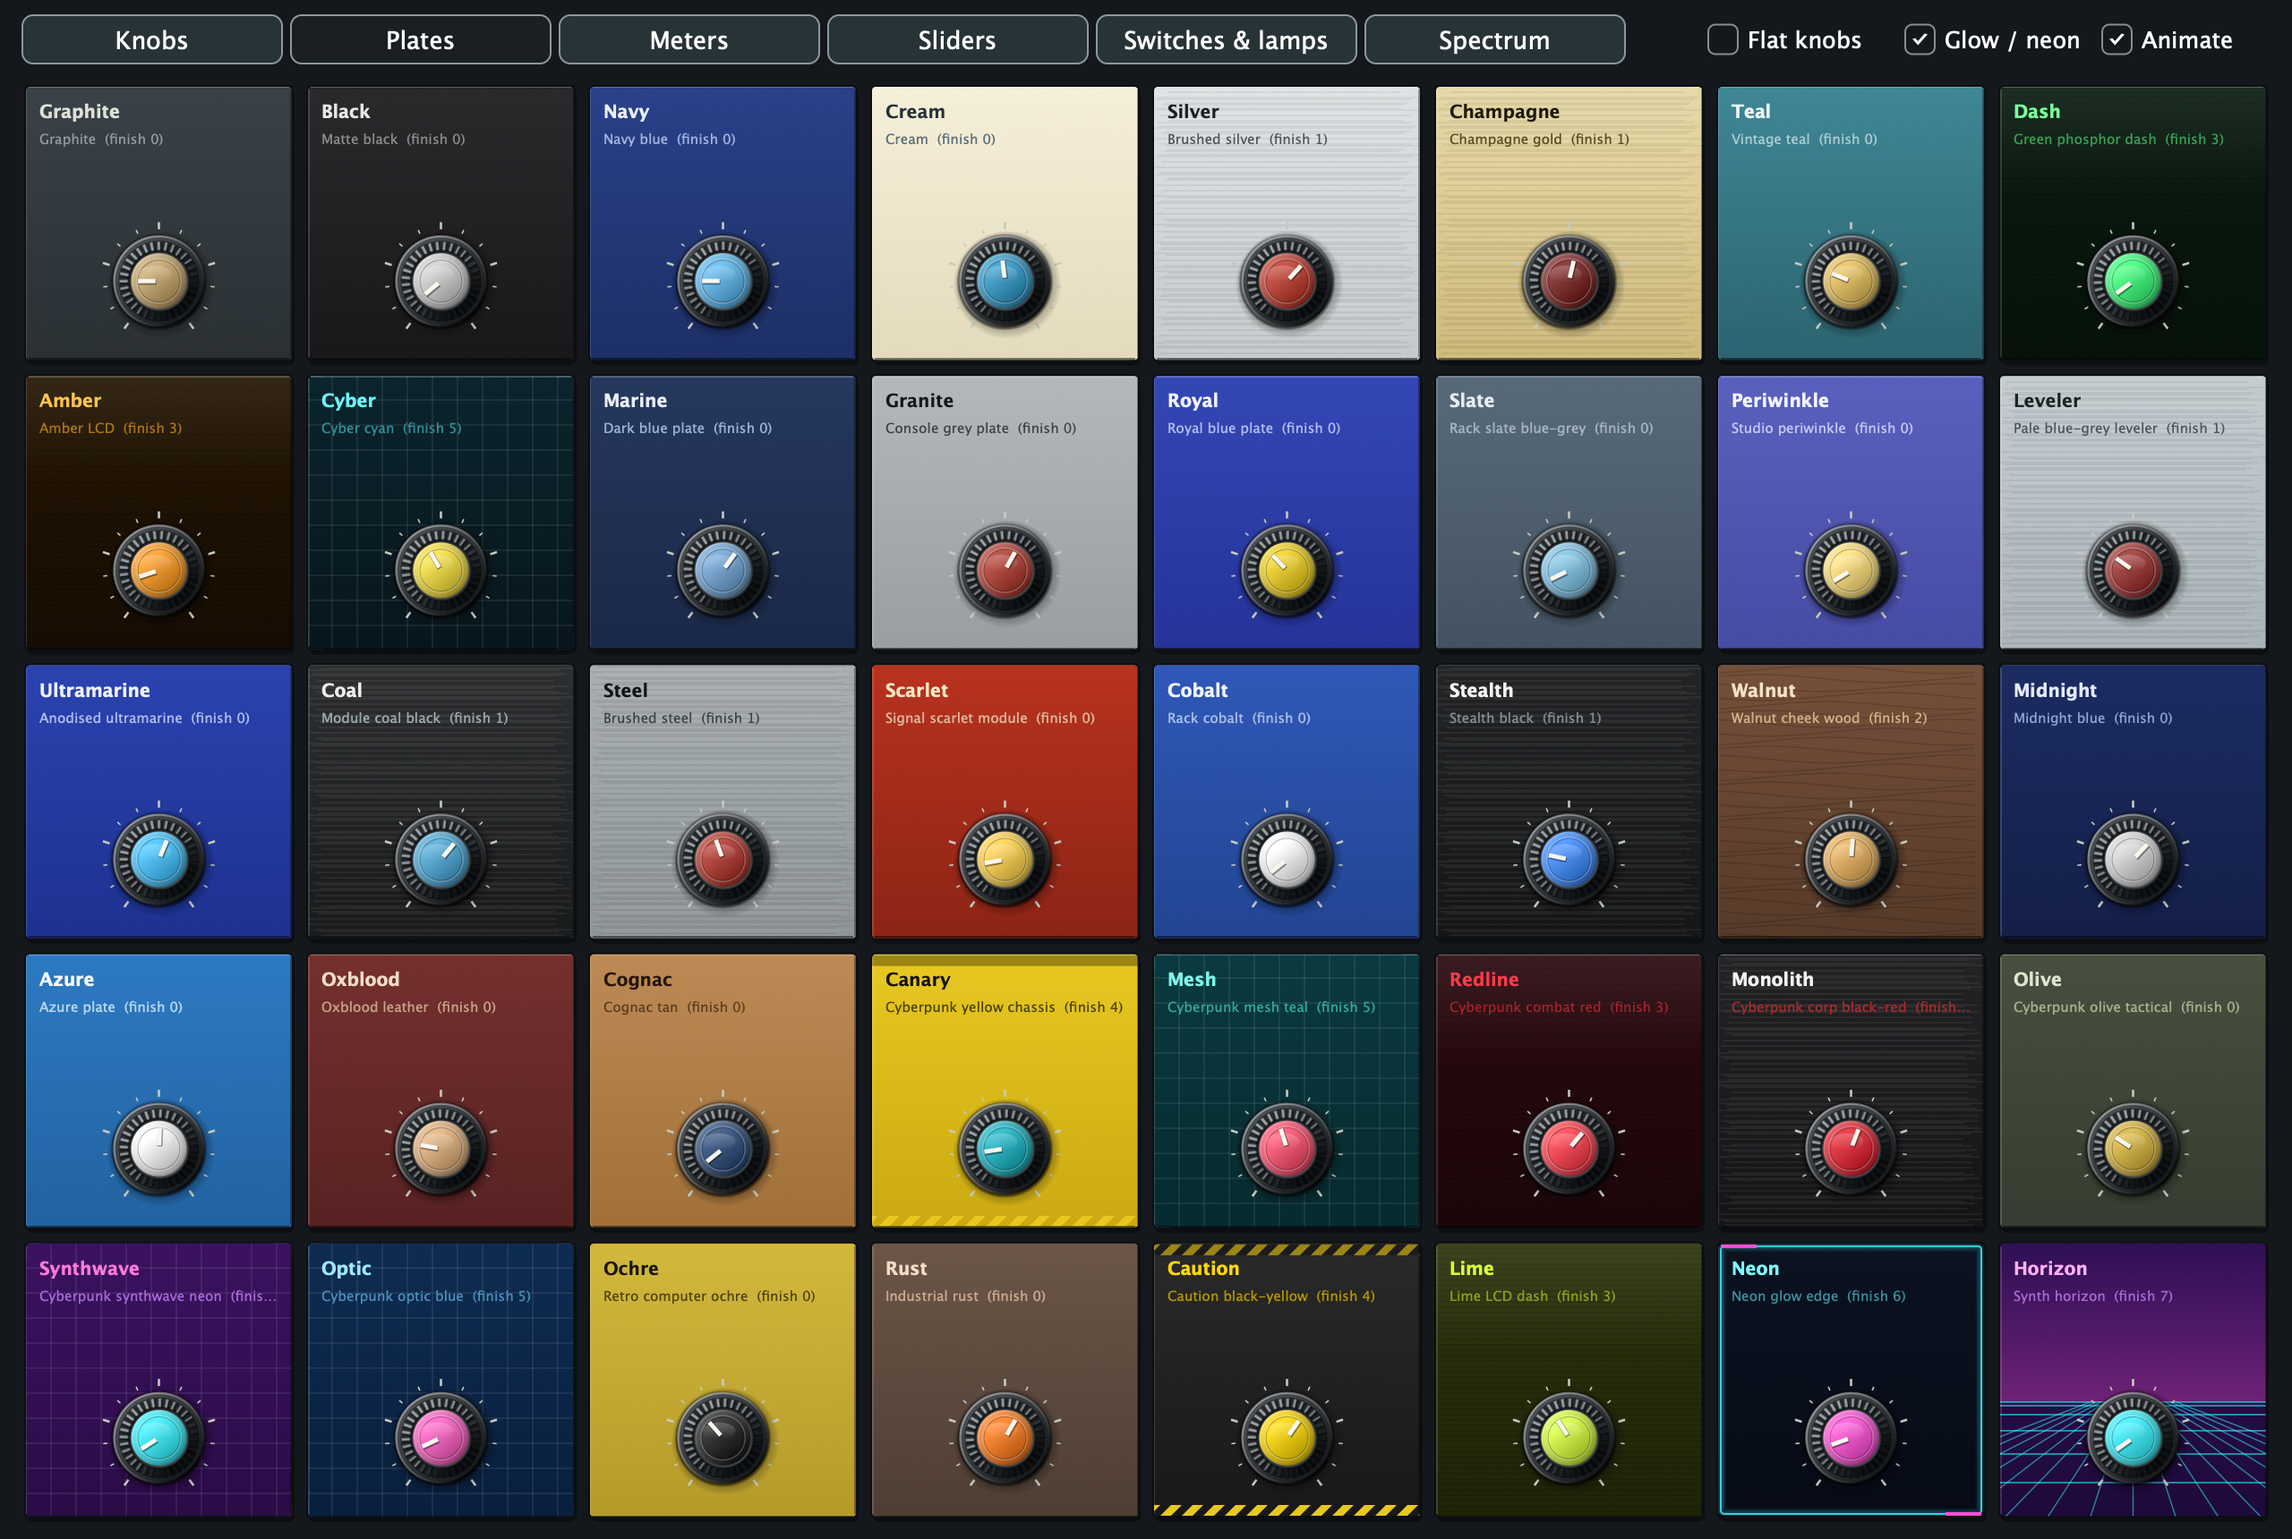
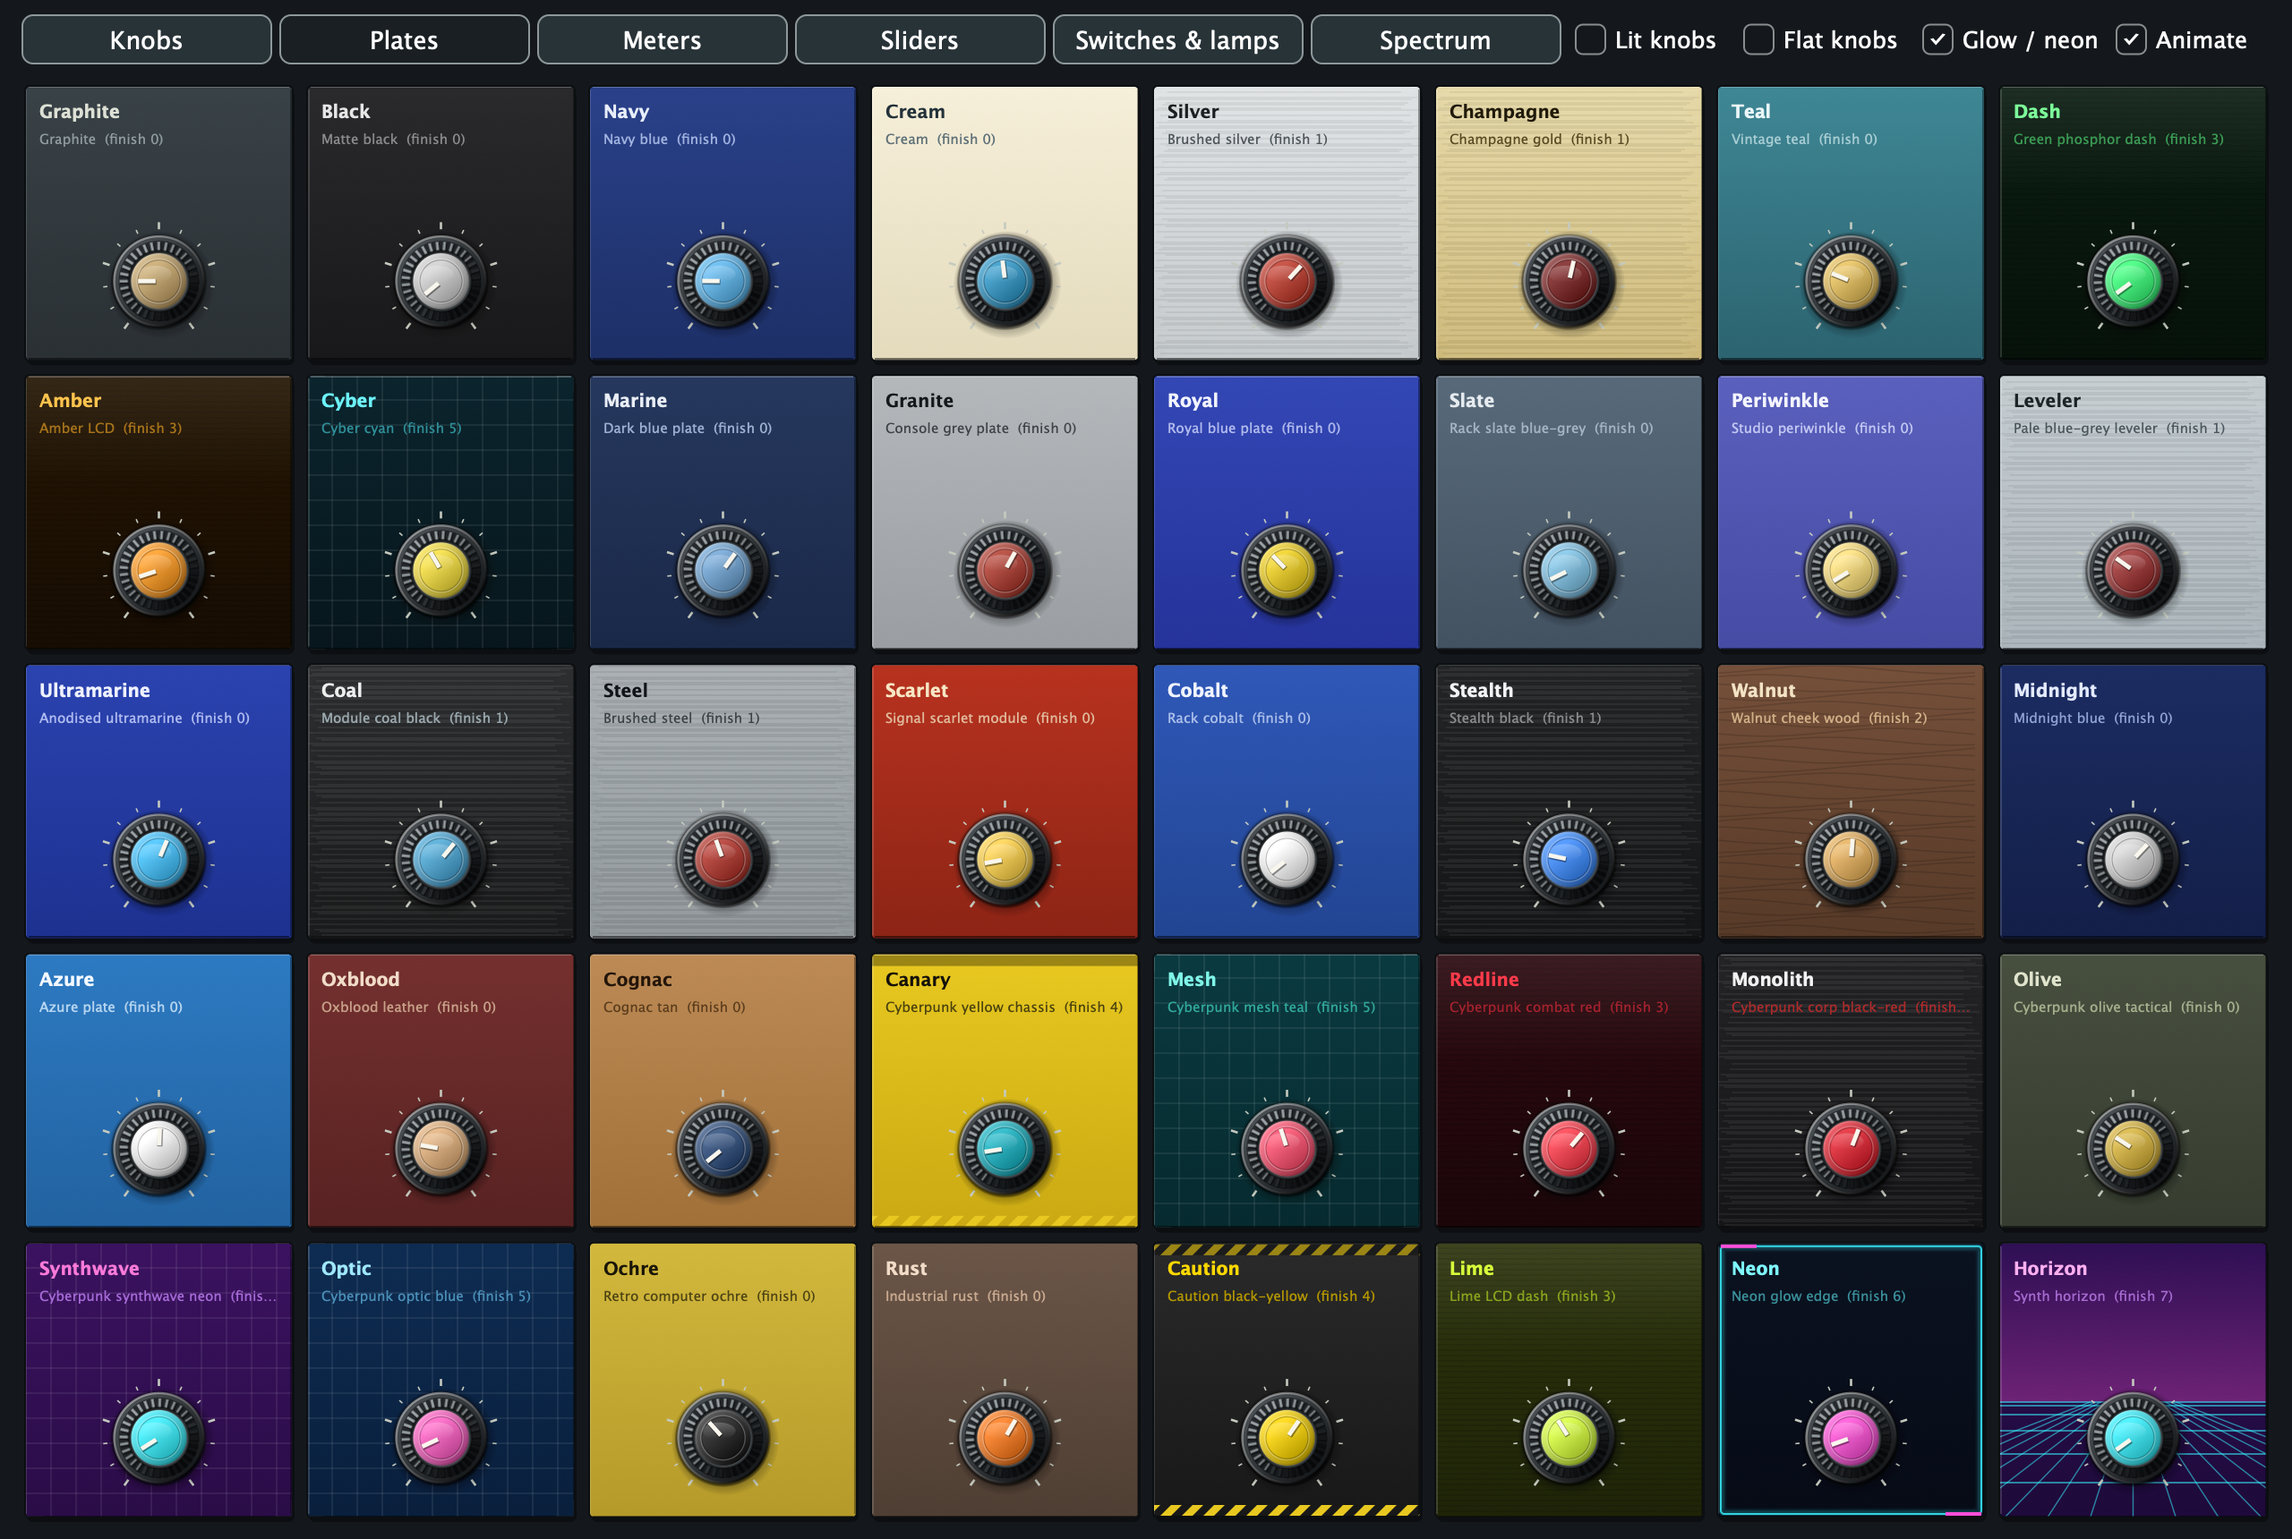
Regenerate docs images and add SpectrumStudio controls for the new settings
- docs/images: all six gallery pages in the 0.2 look, plus knobs_lit.png and
  plates_lit.png; README notes how to select lit knobs.
- SpectrumStudio: palette combo, frame/grid/labels toggles and a bloom slider,
  wired through show()/push().
- SpectrumRenderer: an Accent palette with custom range colours now writes the
  settings tail, so it reloads as Accent instead of Range.
- Gallery: header toggles follow the global knob mode when rendering pages.

diff --git a/adapters/juce/SpectrumStudio.h b/adapters/juce/SpectrumStudio.h
@@ -14,7 +14,7 @@ public:
     std::function<void(const SpectrumSettings&)> onChanged;
 
     SpectrumStudio() {
-        for (auto* c : std::vector<juce::Component*>{&onBox, &sizeBox, &styleBox, &sourceBox, &smoothBox, &mapBox, &holdBox, &stdChip, &tilt, &fall, &opacity, &note})
+        for (auto* c : std::vector<juce::Component*>{&onBox, &sizeBox, &styleBox, &sourceBox, &smoothBox, &mapBox, &holdBox, &paletteBox, &frameBox, &gridBox, &labelsBox, &stdChip, &tilt, &fall, &opacity, &bloom, &note})
             addAndMakeVisible(c);
         for (auto& chip : chips) addAndMakeVisible(chip);
         onBox.setButtonText("Spectrum on");
@@ -22,21 +22,28 @@ public:
         styleBox.addItem("Standard (one colour)", 1); styleBox.addItem("Multicolour (per frequency range)", 2); styleBox.addItem("Bars (multicolour)", 3); styleBox.addItem("Spectrogram (waterfall)", 4);
         sourceBox.addItem("Analyse: output", 1); sourceBox.addItem("Analyse: input", 2);
         holdBox.setButtonText("Peak hold");
+        frameBox.setButtonText("Frame"); gridBox.setButtonText("Grid"); labelsBox.setButtonText("Labels");
+        paletteBox.addItem("Palette: accent", 1); paletteBox.addItem("Palette: amber", 2); paletteBox.addItem("Palette: cyan", 3); paletteBox.addItem("Palette: frequency range", 4);
         const char* sm[] = {"Smoothing: off", "Smoothing: 1 octave", "Smoothing: 1/3 octave", "Smoothing: 1/6 octave", "Smoothing: 1/12 octave", "Smoothing: 1/24 octave"};
         for (int i = 0; i < 6; ++i) smoothBox.addItem(sm[i], i + 1);
         mapBox.addItem("Spectrogram: inferno", 1); mapBox.addItem("Spectrogram: palette shade", 2); mapBox.addItem("Spectrogram: magma", 3); mapBox.addItem("Spectrogram: ice", 4);
         auto slider = [](juce::Slider& s, double lo, double hi, double step, const char* suffix) {
             s.setSliderStyle(juce::Slider::LinearHorizontal); s.setTextBoxStyle(juce::Slider::TextBoxRight, false, 62, 20);
             s.setRange(lo, hi, step); s.setTextValueSuffix(suffix); };
-        slider(tilt, -6, 9, 0.5, " dB/oct"); slider(fall, 2, 120, 1, " dB/s"); slider(opacity, 0.1, 1.0, 0.05, "");
+        slider(tilt, -6, 9, 0.5, " dB/oct"); slider(fall, 2, 120, 1, " dB/s"); slider(opacity, 0.1, 1.0, 0.05, ""); slider(bloom, 0.0, 2.0, 0.05, "");
         tilt.setTooltip("Spectral tilt around 1 kHz. 4.5 dB/oct makes pink noise look flat; 0 is the true response.");
         fall.setTooltip("How fast the display drops after a peak");
         sizeBox.setTooltip("FFT block size: bigger = finer frequency detail and slower response; smaller = faster and coarser");
+        paletteBox.setTooltip("Colour source for the traces and the spectrogram shade; accent and frequency range follow the Standard colour and chips");
+        frameBox.setTooltip("Recessed screen with bevel, vignette and glass");
+        gridBox.setTooltip("Frequency and dB graticule");
+        labelsBox.setTooltip("Graticule labels, shown when the grid is on");
+        bloom.setTooltip("Phosphor bloom strength around the traces and bars");
         for (int i = 0; i < 7; ++i) chips[size_t(i)].onChange = [this](juce::Colour) { push(); };
         stdChip.onChange = [this](juce::Colour) { push(); };
-        for (auto* b : {&onBox, &holdBox}) b->onClick = [this] { push(); };
-        sizeBox.onChange = [this] { push(); }; styleBox.onChange = [this] { push(); }; sourceBox.onChange = [this] { push(); }; smoothBox.onChange = [this] { push(); }; mapBox.onChange = [this] { push(); };
-        for (auto* s : {&tilt, &fall, &opacity}) s->onValueChange = [this] { push(); };
+        for (auto* b : {&onBox, &holdBox, &frameBox, &gridBox, &labelsBox}) b->onClick = [this] { push(); };
+        sizeBox.onChange = [this] { push(); }; styleBox.onChange = [this] { push(); }; sourceBox.onChange = [this] { push(); }; smoothBox.onChange = [this] { push(); }; mapBox.onChange = [this] { push(); }; paletteBox.onChange = [this] { push(); };
+        for (auto* s : {&tilt, &fall, &opacity, &bloom}) s->onValueChange = [this] { push(); };
         note.setText("Colour of each frequency range (click a chip for the wheel)", juce::dontSendNotification);
     }
     void show(const SpectrumSettings& s) {
@@ -46,14 +53,16 @@ public:
         for (int i = 0; i < 6; ++i) if (SpectrumSettings::smoothingChoices[i] == s.smoothing) smoothBox.setSelectedId(i + 1, juce::dontSendNotification);
         mapBox.setSelectedId(s.spectrogramMap + 1, juce::dontSendNotification);
         sourceBox.setSelectedId(s.useOutput ? 1 : 2, juce::dontSendNotification); holdBox.setToggleState(s.peakHold, juce::dontSendNotification);
-        tilt.setValue(s.tilt, juce::dontSendNotification); fall.setValue(s.fall, juce::dontSendNotification); opacity.setValue(s.opacity, juce::dontSendNotification);
+        paletteBox.setSelectedId(int(s.palette) + 1, juce::dontSendNotification);
+        frameBox.setToggleState(s.frame, juce::dontSendNotification); gridBox.setToggleState(s.grid, juce::dontSendNotification); labelsBox.setToggleState(s.labels, juce::dontSendNotification);
+        tilt.setValue(s.tilt, juce::dontSendNotification); fall.setValue(s.fall, juce::dontSendNotification); opacity.setValue(s.opacity, juce::dontSendNotification); bloom.setValue(s.bloom, juce::dontSendNotification);
         stdChip.set(juce::Colour(s.standard)); for (int i = 0; i < 7; ++i) chips[size_t(i)].set(juce::Colour(s.range[i]));
         busy = false;
     }
     void paint(juce::Graphics& g) override {
         g.fillAll(juce::Colour(0xff18222c)); g.setColour(juce::Colour(0xff9dff3a)); g.drawRect(getLocalBounds(), 2);
         g.setColour(juce::Colour(0xff9fb0b8)); g.setFont(juce::FontOptions(10.0f, juce::Font::bold));
-        g.drawText("SPECTRUM (FFT)    tilt  /  fall-off  /  opacity", 10, 3, 360, 12, juce::Justification::centredLeft);
+        g.drawText("SPECTRUM (FFT)    tilt  /  fall-off  /  opacity  /  bloom", 10, 3, 460, 12, juce::Justification::centredLeft);
         for (int i = 0; i < 7; ++i) g.drawText(juce::String(spectrum::ranges[i].name) + " " + rangeText(i), captionRects[size_t(i)], juce::Justification::centred);
         g.drawText("STANDARD", captionRects[7], juce::Justification::centred);
     }
@@ -65,10 +74,16 @@ public:
         holdBox.setBounds(r1.removeFromLeft(110));
         auto r2 = a.removeFromTop(24); a.removeFromTop(4);
         tilt.setBounds(r2.removeFromLeft(250)); r2.removeFromLeft(8); fall.setBounds(r2.removeFromLeft(220)); r2.removeFromLeft(8); opacity.setBounds(r2.removeFromLeft(200)); r2.removeFromLeft(8); smoothBox.setBounds(r2.removeFromLeft(190)); r2.removeFromLeft(6); mapBox.setBounds(r2.removeFromLeft(190));
-        auto cap = a.removeFromTop(11); auto r3 = a.removeFromTop(24); a.removeFromTop(2);
+        auto r3 = a.removeFromTop(24); a.removeFromTop(4);
+        paletteBox.setBounds(r3.removeFromLeft(210)); r3.removeFromLeft(8);
+        frameBox.setBounds(r3.removeFromLeft(90)); r3.removeFromLeft(6);
+        gridBox.setBounds(r3.removeFromLeft(80)); r3.removeFromLeft(6);
+        labelsBox.setBounds(r3.removeFromLeft(90)); r3.removeFromLeft(8);
+        bloom.setBounds(r3.removeFromLeft(230));
+        auto cap = a.removeFromTop(11); auto r4 = a.removeFromTop(24); a.removeFromTop(2);
         const int w = juce::jmin(108, a.getWidth() / 8 - 4);
         for (int i = 0; i < 8; ++i) {
-            auto rc = r3.removeFromLeft(w); auto cc = cap.removeFromLeft(w); r3.removeFromLeft(4); cap.removeFromLeft(4);
+            auto rc = r4.removeFromLeft(w); auto cc = cap.removeFromLeft(w); r4.removeFromLeft(4); cap.removeFromLeft(4);
             (i < 7 ? chips[size_t(i)] : stdChip).setBounds(rc); captionRects[size_t(i)] = cc;
         }
         note.setBounds(a);
@@ -80,16 +95,18 @@ private:
     }
     void push() {
         if (busy || !onChanged) return;
-        SpectrumSettings s = cur;   // keeps palette, frame, grid, labels and bloom, which this panel does not edit
+        SpectrumSettings s = cur;   // start from the shown settings so fields this panel does not edit survive
         s.on = onBox.getToggleState(); s.sizeIndex = 0; for (int i = 0; i < int(std::size(spectrum::fftSizes)); ++i) if (spectrum::fftSizes[i] == sizeBox.getSelectedId()) s.sizeIndex = i;
         const int st = styleBox.getSelectedId(); s.style = st == 2 ? SpectrumSettings::Style::Multicolour : st == 3 ? SpectrumSettings::Style::Bars : st == 4 ? SpectrumSettings::Style::Spectrogram : SpectrumSettings::Style::Standard;
         s.smoothing = SpectrumSettings::smoothingChoices[juce::jlimit(0, 5, smoothBox.getSelectedId() - 1)]; s.spectrogramMap = juce::jmax(0, mapBox.getSelectedId() - 1);
         s.useOutput = sourceBox.getSelectedId() != 2; s.peakHold = holdBox.getToggleState();
-        s.tilt = float(tilt.getValue()); s.fall = float(fall.getValue()); s.opacity = float(opacity.getValue());
+        s.palette = static_cast<SpectrumSettings::Palette>(juce::jlimit(0, 3, paletteBox.getSelectedId() - 1));
+        s.frame = frameBox.getToggleState(); s.grid = gridBox.getToggleState(); s.labels = labelsBox.getToggleState();
+        s.tilt = float(tilt.getValue()); s.fall = float(fall.getValue()); s.opacity = float(opacity.getValue()); s.bloom = float(bloom.getValue());
         s.standard = stdChip.get().getARGB(); for (int i = 0; i < 7; ++i) s.range[i] = chips[size_t(i)].get().getARGB();
         onChanged(s);
     }
-    juce::ToggleButton onBox, holdBox; juce::ComboBox sizeBox, styleBox, sourceBox, smoothBox, mapBox; juce::Slider tilt, fall, opacity; juce::Label note;
+    juce::ToggleButton onBox, holdBox, frameBox, gridBox, labelsBox; juce::ComboBox sizeBox, styleBox, sourceBox, smoothBox, mapBox, paletteBox; juce::Slider tilt, fall, opacity, bloom; juce::Label note;
     SpectrumSettings cur; ColourChip chips[7], stdChip; juce::Rectangle<int> captionRects[8]; bool busy = false;
 };
 

diff --git a/examples/gallery/Main.cpp b/examples/gallery/Main.cpp
@@ -38,6 +38,13 @@ private:
             juce::File f = out.getChildFile(juce::String(names[p]) + ".png"); f.deleteFile(); juce::FileOutputStream o(f); juce::PNGImageFormat().writeImageToStream(img, o);
             std::printf("wrote %s (%d x %d)\n", f.getFullPathName().toRawUTF8(), img.getWidth(), img.getHeight());
         }
+        goodlookinui::juce_adapter::useLitKnobs = true;
+        for (int p : {0, 1}) {
+            auto img = g.renderPage(p, 5, 2.0f);
+            juce::File f = out.getChildFile(juce::String(names[p]) + "_lit.png"); f.deleteFile(); juce::FileOutputStream o(f); juce::PNGImageFormat().writeImageToStream(img, o);
+            std::printf("wrote %s (%d x %d)\n", f.getFullPathName().toRawUTF8(), img.getWidth(), img.getHeight());
+        }
+        goodlookinui::juce_adapter::useLitKnobs = false;
         setApplicationReturnValue(0); quit();
     }
     void selfTest(const juce::File& out) {

diff --git a/adapters/juce/SpectrumRenderer.h b/adapters/juce/SpectrumRenderer.h
@@ -67,7 +67,10 @@ struct SpectrumSettings {
         for (auto c : range) s << ',' << juce::String::toHexString(int(c));
         s << ',' << smoothing << ',' << spectrogramMap;
         const SpectrumSettings d;
-        if (palette != d.palette || frame != d.frame || grid != d.grid || labels != d.labels || bloom != d.bloom)
+        bool customRange = false;
+        for (int i = 0; i < 7; ++i) customRange = customRange || range[i] != d.range[i];
+        // Accent is the default, so it also needs the tail when custom range chips would otherwise be read back as Range.
+        if (palette != d.palette || frame != d.frame || grid != d.grid || labels != d.labels || bloom != d.bloom || (palette == Palette::Accent && customRange))
             s << ',' << paletteCode(palette) << ',' << ((frame ? 1 : 0) | (grid ? 2 : 0) | (labels ? 4 : 0)) << ',' << bloom;
         return s;
     }

diff --git a/adapters/juce/Gallery.h b/adapters/juce/Gallery.h
@@ -69,6 +69,8 @@ public:
     // Renders one page to an image (for tests and documentation).
     juce::Image renderPage(int p, int seconds = 3, float scale = 1.0f) {
         setPage(p);
+        // the knob mode is global, so the header toggles follow it rather than their own last click
+        litBtn.setToggleState(useLitKnobs, juce::dontSendNotification); flatBtn.setToggleState(useFlatKnobs, juce::dontSendNotification);
         createComponentSnapshot(getLocalBounds(), true, 0.25f);          // one paint first, so the spectrogram history gets its size
         for (int i = 0; i < seconds * 30; ++i) advance(1.0f / 30.0f);
         return createComponentSnapshot(getLocalBounds(), true, scale);

diff --git a/README.md b/README.md
@@ -13,6 +13,12 @@ Everything below is generated in code (no bitmaps) and rendered by the gallery a
 ### 40 plates, with surface finishes
 ![Plates](docs/images/plates.png)
 
+### Lit knobs
+Use a `lit_<preset>` style code (for example, `lit_Brit`) or `setKnobMode(KnobMode::Lit)` for the lit knob tier.
+
+![Lit knobs](docs/images/knobs_lit.png)
+![Plates with lit knobs](docs/images/plates_lit.png)
+
 ### Meters: professional hardware, 80s dash and cyberpunk
 ![Meters](docs/images/meters.png)
 
